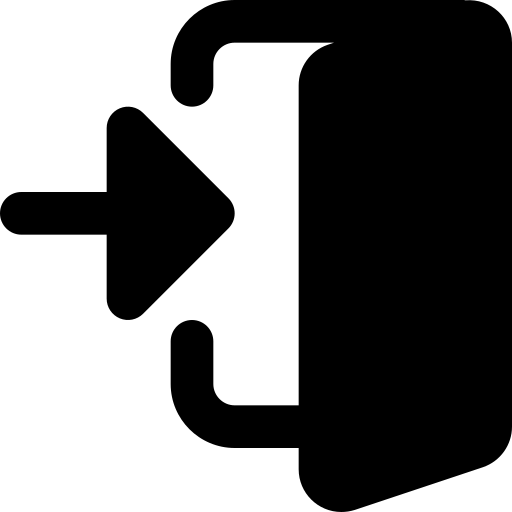
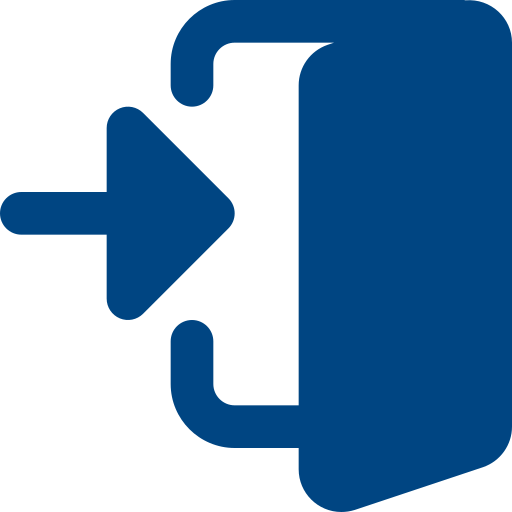
Fase inicial completa

diff --git a/src/pages/LogRegister.jsx b/src/pages/LogRegister.jsx
@@ -7,12 +7,15 @@ import GreetingLogo from '../components/LoginBackground/LogGreeting/GreetingLogo
 import ActionIcon from '../components/LoginBackground/CardWrapper/LoginCard/ActionWrapper/ActionIcon/ActionIcon.jsx'
 import LogForm from '../components/LoginBackground/CardWrapper/LoginCard/LogForm/LogForm.jsx'
 import LogQuestion from '../components/LoginBackground/CardWrapper/LoginCard/ActionWrapper/LogQuestion/LogQuestion.jsx'
-import LogLabel from '../components/LoginBackground/CardWrapper/LoginCard/LogForm/LogLabel/LogLabel.jsx'
-import LogInput from '../components/LoginBackground/CardWrapper/LoginCard/LogForm/LogInput/LogInput.jsx'
+import LogLabel from '../components/LoginBackground/CardWrapper/LoginCard/LogForm/InputLogWrapper/LogLabel/LogLabel.jsx'
+import LogInput from '../components/LoginBackground/CardWrapper/LoginCard/LogForm/InputLogWrapper/LogInput/LogInput.jsx'
 import LogSubmit from '../components/LoginBackground/CardWrapper/LoginCard/LogForm/LogSubmit/LogSubmit.jsx'
 import Style from '../components/LoginBackground/CardWrapper/LoginCard/ActionWrapper/ActionIcon/ActionIcon.module.css'
 import ActionTitle from '../components/LoginBackground/CardWrapper/LoginCard/ActionWrapper/ActionTitle/ActionTitle.jsx'
 import ActionWrapper from '../components/LoginBackground/CardWrapper/LoginCard/ActionWrapper/ActionWrapper.jsx'
+import Logicon from '../assets/profile-user.png'
+import SignIcon from '../assets/enter.png'
+import InputLogWrapper from '../components/LoginBackground/CardWrapper/LoginCard/LogForm/InputLogWrapper/InputLogWrapper.jsx'
 
 function LogRegister() {
     return (
@@ -27,19 +30,37 @@ function LogRegister() {
                     <LoginCard>
                          <ActionWrapper>
                               <LogQuestion innerText="Já é assinante?"/>
-                              <ActionIcon className={Style.actionLogin}/>
+                              <ActionIcon src={Logicon}/>
                               <ActionTitle actionTitle="Log-in"/>
                          </ActionWrapper>
                          <LogForm>
-                              <LogLabel htmlFor="username">Usuário:</LogLabel>
-                              <LogInput type="text" id="username" name="username"/>
-                              <LogLabel htmlFor="password">Senha:</LogLabel>
-                              <LogInput type="password" id="password" name="password"/>
-                              <LogSubmit/>
+                              <InputLogWrapper>
+                                   <LogInput type="text" id="username" name="username" placeholder="Digite seu usuário..."/>
+                              </InputLogWrapper>
+                              <InputLogWrapper>
+                                   <LogInput type="password" id="password" name="password" placeholder="Digite sua senha..."/>
+                              </InputLogWrapper>
+                              <LogSubmit value="Entrar"/>
                          </LogForm>
                     </LoginCard>
                     <LoginCard>
-
+                         <ActionWrapper>
+                              <LogQuestion innerText="Ainda não tem conta?"/>
+                              <ActionIcon src={SignIcon}/>
+                              <ActionTitle actionTitle="Registrar"/>
+                         </ActionWrapper>
+                         <LogForm>
+                              <InputLogWrapper>
+                                   <LogInput type="text" id="username" name="username" placeholder="Digite seu usuário..."/>
+                              </InputLogWrapper>
+                              <InputLogWrapper>
+                                   <LogInput type="password" id="password" name="password" placeholder="Digite sua senha..."/>
+                              </InputLogWrapper>
+                              <InputLogWrapper>
+                                   <LogInput type="password" id="password" name="password" placeholder="Confirme sua senha..."/>
+                              </InputLogWrapper>
+                              <LogSubmit value="Registrar"/>
+                         </LogForm>
                     </LoginCard>
                </CardWrapper>
          </LoginBackground> 

diff --git a/src/components/LoginBackground/CardWrapper/LoginCard/ActionWrapper/ActionIcon/ActionIcon.module.css b/src/components/LoginBackground/CardWrapper/LoginCard/ActionWrapper/ActionIcon/ActionIcon.module.css
@@ -1,12 +1,8 @@
 .actionLogin {
     background-image: url('../../../../../../assets/profile-user.png');
-    width: 50%;
-    height: 93px;
+    width: 60%;
+    height: 112px;
     background-size: cover;
     background-position: center;
     background-repeat: no-repeat;
-}
-
-.actionSignin {
-    background-image: url('../../../../../../assets/enter.png');
 }

diff --git a/src/components/LoginBackground/CardWrapper/LoginCard/LogForm/LogSubmit/LogSubmit.jsx b/src/components/LoginBackground/CardWrapper/LoginCard/LogForm/LogSubmit/LogSubmit.jsx
@@ -1,5 +1,7 @@
- function LogSubmit() {
-    return <input type="submit"></input>
+ import Style from './LogSubmit.module.css'
+ 
+ function LogSubmit(props) {
+    return <input className={Style.logSubmit} type="submit" value={props.value}/>
  }
 
  export default LogSubmit

diff --git a/src/components/LoginBackground/CardWrapper/LoginCard/LogForm/InputLogWrapper/LogInput/LogInput.jsx b/src/components/LoginBackground/CardWrapper/LoginCard/LogForm/InputLogWrapper/LogInput/LogInput.jsx
@@ -1,0 +1,7 @@
+import Style from './LogInput.module.css'
+
+function LogInput(props) {
+    return <input className={Style.logInput} type={props.type} id={props.id} name={props.name} placeholder={props.placeholder}/>
+}
+
+export default LogInput

diff --git a/src/components/LoginBackground/CardWrapper/LoginCard/ActionWrapper/ActionTitle/ActionTitle.jsx b/src/components/LoginBackground/CardWrapper/LoginCard/ActionWrapper/ActionTitle/ActionTitle.jsx
@@ -1,5 +1,7 @@
+import Style from './ActionTitle.module.css'
+
 function ActionTitle(props) {
-    return <h3>{props.actionTitle}</h3>
+    return <h3 className={Style.actionTitle}>{props.actionTitle}</h3>
 }
 
 export default ActionTitle

diff --git a/src/components/LoginBackground/CardWrapper/LoginCard/ActionWrapper/LogQuestion/LogQuestion.jsx b/src/components/LoginBackground/CardWrapper/LoginCard/ActionWrapper/LogQuestion/LogQuestion.jsx
@@ -1,5 +1,7 @@
+import Style from './LogQuestion.module.css'
+
 function LogQuestion(props) {
-    return <h3>{props.innerText}</h3>
+    return <h3 className={Style.logQuestion}>{props.innerText}</h3>
 }
 
 export default LogQuestion

diff --git a/src/components/LoginBackground/CardWrapper/LoginCard/LogForm/LogSubmit/LogSubmit.module.css b/src/components/LoginBackground/CardWrapper/LoginCard/LogForm/LogSubmit/LogSubmit.module.css
@@ -1,0 +1,11 @@
+.logSubmit {
+    border: none;
+    border-radius: 7px;
+    height: 8h;
+    width: 60%;
+    align-self: center;
+    font-size: 3vh;
+    background-color: #00477F;
+    font-size: 1.5em;
+    color: white;
+}

diff --git a/src/components/LoginBackground/CardWrapper/LoginCard/LogForm/LogForm.jsx b/src/components/LoginBackground/CardWrapper/LoginCard/LogForm/LogForm.jsx
@@ -1,5 +1,7 @@
+import Style from './LogForm.module.css'
+
 function LogForm(props) {
-    return <form>{props.children}</form>
+    return <form className={Style.logForm}>{props.children}</form>
 }
 
 export default LogForm

diff --git a/src/components/LoginBackground/CardWrapper/LoginCard/LogForm/InputLogWrapper/InputLogWrapper.jsx b/src/components/LoginBackground/CardWrapper/LoginCard/LogForm/InputLogWrapper/InputLogWrapper.jsx
@@ -1,0 +1,7 @@
+import Style from './InputLogWrapper.module.css'
+
+function InputLogWrapper(props) {
+    return <div className={Style.inputLogWrapper}>{props.children}</div>
+}
+
+export default InputLogWrapper

diff --git a/src/components/LoginBackground/CardWrapper/LoginCard/LogForm/InputLogWrapper/LogLabel/LogLabel.jsx b/src/components/LoginBackground/CardWrapper/LoginCard/LogForm/InputLogWrapper/LogLabel/LogLabel.jsx
@@ -1,0 +1,7 @@
+import Style from './LogLabel.module.css'
+
+function LogLabel(props) {
+    return <label className={Style.logLabel} htmlFor={props.htmlFor}>{props.children}</label>
+}
+
+export default LogLabel

diff --git a/src/components/LoginBackground/CardWrapper/LoginCard/LogForm/InputLogWrapper/LogInput/LogInput.module.css b/src/components/LoginBackground/CardWrapper/LoginCard/LogForm/InputLogWrapper/LogInput/LogInput.module.css
@@ -1,0 +1,10 @@
+.logInput {
+    outline: none;
+    border: none;
+    background-color: #E7E7E7;
+    height: 5vh;
+    border-radius: 7px;
+    display: block;
+    width: 100%;
+    padding: 15px;
+}

diff --git a/src/components/LoginBackground/CardWrapper/LoginCard/LoginCard.module.css b/src/components/LoginBackground/CardWrapper/LoginCard/LoginCard.module.css
@@ -6,6 +6,6 @@
     display: flex;
     flex-direction: column;
     align-items: center;
-    justify-content: center;
-    gap: 50px
+    justify-content: space-between;
+    padding: 30px 30px;
 }
